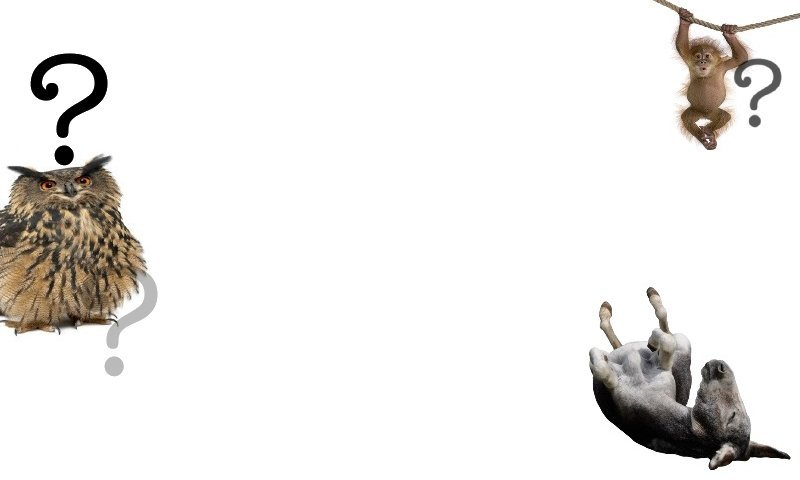
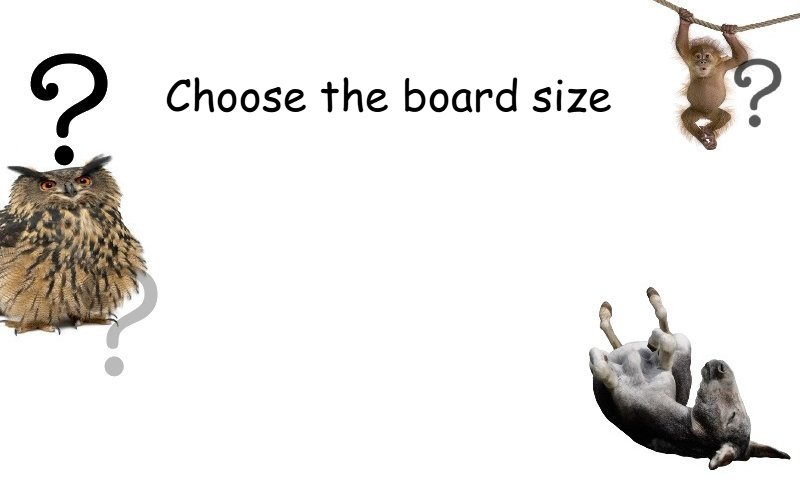
game type background

Changed region(s): [[0.1875, 0.1562, 0.7812, 0.25]]

diff --git a/src/com/thinkfaster/manager/ResourcesManager.java b/src/com/thinkfaster/manager/ResourcesManager.java
@@ -61,7 +61,8 @@ public class ResourcesManager {
     //Loading
     private ITextureRegion loadingTextureRegion;
     // Game Type
-    private ITextureRegion backgroundGameTypeTextureRegion;
+    private ITextureRegion backgroundGameTypeTextureRegion, smallGameTypeTextureRegion,mediumGameTypeTextureRegion,bigGameTypeTextureRegion;
+
     private List<Sound> animalSoundList = new ArrayList<>();
 
     private Sound startGameSound;
@@ -231,6 +232,18 @@ public class ResourcesManager {
 
     public ITextureRegion getBackgroundGameTypeTextureRegion() {
         return backgroundGameTypeTextureRegion;
+    }
+
+    public ITextureRegion getSmallGameTypeTextureRegion() {
+        return smallGameTypeTextureRegion;
+    }
+
+    public ITextureRegion getMediumGameTypeTextureRegion() {
+        return mediumGameTypeTextureRegion;
+    }
+
+    public ITextureRegion getBigGameTypeTextureRegion() {
+        return bigGameTypeTextureRegion;
     }
 
     public ITextureRegion getLoadingTextureRegion() {
@@ -462,12 +475,15 @@ public class ResourcesManager {
         }
 
         BitmapTextureAtlasTextureRegionFactory.setAssetBasePath("gfx/gametype/");
-        gameTypeTextureAtlas = new BuildableBitmapTextureAtlas(activity.getTextureManager(), 1024, 1024, TextureOptions.BILINEAR);
+        gameTypeTextureAtlas = new BuildableBitmapTextureAtlas(activity.getTextureManager(), 1024, 1024, TextureOptions.DEFAULT);
 
         backgroundGameTypeTextureRegion = BitmapTextureAtlasTextureRegionFactory.createFromAsset(gameTypeTextureAtlas, activity, "background.jpg");
+        smallGameTypeTextureRegion = BitmapTextureAtlasTextureRegionFactory.createFromAsset(gameTypeTextureAtlas, activity, "4x4.png");
+        mediumGameTypeTextureRegion = BitmapTextureAtlasTextureRegionFactory.createFromAsset(gameTypeTextureAtlas, activity, "4x5.png");
+        bigGameTypeTextureRegion = BitmapTextureAtlasTextureRegionFactory.createFromAsset(gameTypeTextureAtlas, activity, "4x6.png");
 
         try {
-            gameTypeTextureAtlas.build(new BlackPawnTextureAtlasBuilder<IBitmapTextureAtlasSource, BitmapTextureAtlas>(1, 1, 1));
+            gameTypeTextureAtlas.build(new BlackPawnTextureAtlasBuilder<IBitmapTextureAtlasSource, BitmapTextureAtlas>(0, 0, 0));
             gameTypeTextureAtlas.load();
         } catch (ITextureAtlasBuilder.TextureAtlasBuilderException e) {
             Log.e(TAG, "Error during building atlasses");

diff --git a/src/com/thinkfaster/model/scene/game/GameTypeScene.java b/src/com/thinkfaster/model/scene/game/GameTypeScene.java
@@ -62,9 +62,9 @@ public class GameTypeScene extends BaseScene implements MenuScene.IOnMenuItemCli
         menuScene.setBackgroundEnabled(false);
         menuScene.buildAnimations();
 
-        final IMenuItem smallSizeGame = new ScaleMenuItemDecorator(new SpriteMenuItem(Level.SMALL.getGameTypeId(), ResourcesManager.getInstance().getButtonHighScoreTextureRegion(), vertexBufferObjectManager), 1.2f, 1);
-        final IMenuItem mediumSizeGame = new ScaleMenuItemDecorator(new SpriteMenuItem(Level.MEDIUM.getGameTypeId(), ResourcesManager.getInstance().getButtonHighScoreTextureRegion(), vertexBufferObjectManager), 1.2f, 1);
-        final IMenuItem bigSizeGame = new ScaleMenuItemDecorator(new SpriteMenuItem(Level.BIG.getGameTypeId(), ResourcesManager.getInstance().getButtonHighScoreTextureRegion(), vertexBufferObjectManager), 1.2f, 1);
+        final IMenuItem smallSizeGame = new ScaleMenuItemDecorator(new SpriteMenuItem(Level.SMALL.getGameTypeId(), ResourcesManager.getInstance().getSmallGameTypeTextureRegion(), vertexBufferObjectManager), 1.2f, 1);
+        final IMenuItem mediumSizeGame = new ScaleMenuItemDecorator(new SpriteMenuItem(Level.MEDIUM.getGameTypeId(), ResourcesManager.getInstance().getMediumGameTypeTextureRegion(), vertexBufferObjectManager), 1.2f, 1);
+        final IMenuItem bigSizeGame = new ScaleMenuItemDecorator(new SpriteMenuItem(Level.BIG.getGameTypeId(), ResourcesManager.getInstance().getBigGameTypeTextureRegion(), vertexBufferObjectManager), 1.2f, 1);
 
         menuScene.addMenuItem(smallSizeGame);
         menuScene.addMenuItem(mediumSizeGame);
@@ -73,9 +73,9 @@ public class GameTypeScene extends BaseScene implements MenuScene.IOnMenuItemCli
         menuScene.buildAnimations();
         menuScene.setBackgroundEnabled(false);
 
-        smallSizeGame.setPosition(210, 397);
-        mediumSizeGame.setPosition(210, 257);
-        bigSizeGame.setPosition(210, 187);
+        smallSizeGame.setPosition(250, 260);
+        mediumSizeGame.setPosition(400, 260);
+        bigSizeGame.setPosition(550, 260);
 
         menuScene.setOnMenuItemClickListener(this);
 

diff --git a/src/com/thinkfaster/service/HighScoreService.java b/src/com/thinkfaster/service/HighScoreService.java
@@ -1,6 +1,7 @@
 package com.thinkfaster.service;
 
 import android.util.Log;
+import com.thinkfaster.model.Level;
 import org.apache.commons.lang3.builder.CompareToBuilder;
 
 import java.util.Comparator;
@@ -27,23 +28,27 @@ public class HighScoreService {
     private static final String TAG = "HighScoreService";
     private DatabaseService databaseService = new DatabaseService();
 
-    public void updateScores(double score) {
+    public void updateScores(final Level level, final double score) {
         Log.i(TAG, ">> Updating highscores with score=" + score);
-        final List<String> highscores = databaseService.getList(HIGHSCORE_KEY);
+        final List<String> highscores = databaseService.getList(getHighscoreKey(level));
         Log.i(TAG, ">> Currect highscores=" + highscores);
         highscores.add(String.valueOf(score));
         sort(highscores, SCORE_COMPARATOR);
         final Iterable<String> limitedHighscores = limit(highscores, HIGHSCORE_LIMIT);
         final List<String> newHighscores = newArrayList(limitedHighscores);
-        databaseService.save(HIGHSCORE_KEY, newHighscores);
+        databaseService.save(getHighscoreKey(level), newHighscores);
         Log.i(TAG, "<< Updating highscores finished with newHighscores=" + newHighscores);
     }
 
-    public List<String> getHighscores() {
+    public List<String> getHighscores(Level level) {
         Log.d(TAG, ">> Getting highscores");
-        final List<String> result = databaseService.getList(HIGHSCORE_KEY);
+        final List<String> result = databaseService.getList(getHighscoreKey(level));
         sort(result, SCORE_COMPARATOR);
         Log.d(TAG, "<< Getting finished with result=" + result);
         return result;
+    }
+
+    private String getHighscoreKey(Level level) {
+        return String.format("%s-%s", HIGHSCORE_KEY, level.name());
     }
 }

diff --git a/src/com/thinkfaster/model/scene/menu/HighScoreScene.java b/src/com/thinkfaster/model/scene/menu/HighScoreScene.java
@@ -2,6 +2,7 @@ package com.thinkfaster.model.scene.menu;
 
 import com.thinkfaster.manager.ResourcesManager;
 import com.thinkfaster.manager.SceneManager;
+import com.thinkfaster.model.Level;
 import com.thinkfaster.model.scene.BaseScene;
 import com.thinkfaster.service.HighScoreService;
 import com.thinkfaster.util.ContextConstants;
@@ -73,7 +74,7 @@ public class HighScoreScene extends BaseScene implements IOnSceneTouchListener {
     }
 
     private void createHighscoreTable() {
-        final List<String> highscores = highScoreService.getHighscores();
+        final List<String> highscores = highScoreService.getHighscores(Level.SMALL);
 
         for (int i = 0; i < highscores.size(); i++) {
             final String highscoreText = String.format("%s", highscores.get(i));

diff --git a/src/com/thinkfaster/model/scene/game/GameScene.java b/src/com/thinkfaster/model/scene/game/GameScene.java
@@ -152,7 +152,7 @@ public class GameScene extends AbstractGameScene {
 
     private void finishGame() {
         final double score = getScore();
-        highScoreService.updateScores(score);
+        highScoreService.updateScores(currentLevel,score);
         SceneManager.getInstance().loadEndGameScene(score);
     }
 
